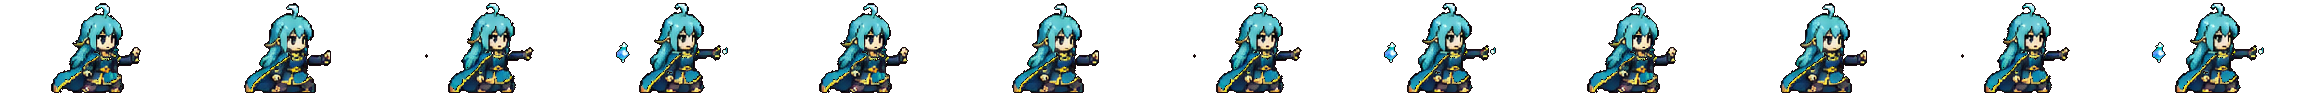
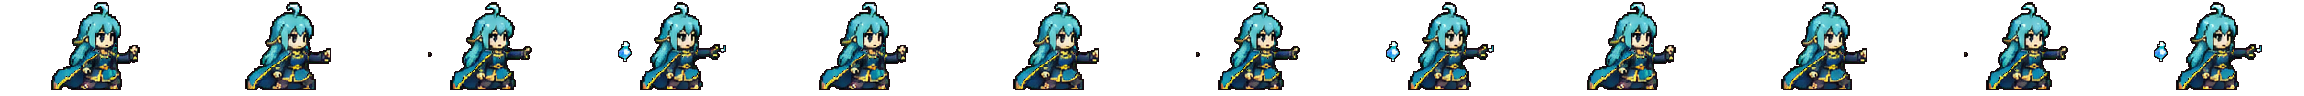
fix(marina): rebuild sprite sheets with pillow

diff --git a/scripts/assets/rebuild_marina_character_with_pillow.py b/scripts/assets/rebuild_marina_character_with_pillow.py
@@ -1,0 +1,238 @@
+#!/usr/bin/env python3
+from __future__ import annotations
+
+import re
+from pathlib import Path
+
+from PIL import Image, ImageChops, ImageFilter
+
+
+ROOT = Path(__file__).resolve().parents[2]
+OUT_DIR = ROOT / "assets/characters/marina"
+SOURCE = OUT_DIR / "generated_source/marina_clean_source_chromakey.png"
+ALPHA_SOURCE = OUT_DIR / "generated_source/marina_clean_source_alpha_pillow.png"
+PREVIEW = OUT_DIR / "generated_source/marina_rework_preview.png"
+WORK_DIR = ROOT / "tmp/asset_generation/marina_clean/pillow_frames"
+
+FRAME_WIDTH = 192
+FRAME_HEIGHT = 96
+CONTENT_HEIGHT = 92
+OUTLINE = (26, 11, 16, 255)
+KEY_THRESHOLD = 42
+DESPILL_THRESHOLD = 28
+FOOT_LIFT = 3
+
+
+def parse_box(box: str) -> tuple[int, int, int, int]:
+    match = re.fullmatch(r"(\d+)x(\d+)\+(\d+)\+(\d+)", box)
+    if not match:
+        raise ValueError(f"invalid crop box: {box}")
+    width, height, x, y = map(int, match.groups())
+    return x, y, x + width, y + height
+
+
+def parse_resize(spec: str) -> tuple[int | None, int | None, bool]:
+    limit = spec.endswith(">")
+    if limit:
+        spec = spec[:-1]
+    if spec.startswith("x"):
+        return None, int(spec[1:]), limit
+    if "x" in spec:
+        left, right = spec.split("x", 1)
+        return int(left) if left else None, int(right) if right else None, limit
+    return int(spec), None, limit
+
+
+def remove_green_key(image: Image.Image) -> Image.Image:
+    image = image.convert("RGBA")
+    pixels = image.load()
+    for y in range(image.height):
+        for x in range(image.width):
+            r, g, b, a = pixels[x, y]
+            if a == 0:
+                pixels[x, y] = (0, 0, 0, 0)
+                continue
+            green_delta = g - max(r, b)
+            if g > 70 and green_delta > KEY_THRESHOLD and g > int(r * 1.18) and g > int(b * 1.18):
+                pixels[x, y] = (0, 0, 0, 0)
+            elif green_delta > DESPILL_THRESHOLD and g > r and g > b:
+                replacement = int(max(r, b) * 0.72)
+                pixels[x, y] = (r, min(g, replacement), b, a)
+    return image
+
+
+def trim(image: Image.Image) -> Image.Image:
+    alpha = image.getchannel("A")
+    bbox = alpha.getbbox()
+    if bbox is None:
+        return Image.new("RGBA", (1, 1), (0, 0, 0, 0))
+    return image.crop(bbox)
+
+
+def resize_like_magick(image: Image.Image, spec: str) -> Image.Image:
+    width, height, limit = parse_resize(spec)
+    current_w, current_h = image.size
+
+    if width is None and height is None:
+        return image
+    if width is None:
+        scale = height / current_h
+    elif height is None:
+        scale = width / current_w
+    else:
+        scale = min(width / current_w, height / current_h)
+        if not limit:
+            # Match ImageMagick's aspect-preserving WxH behavior.
+            scale = min(width / current_w, height / current_h)
+
+    if limit and scale >= 1:
+        return image
+
+    new_size = (max(1, round(current_w * scale)), max(1, round(current_h * scale)))
+    return image.resize(new_size, Image.Resampling.NEAREST)
+
+
+def constrain(image: Image.Image) -> Image.Image:
+    width, height = image.size
+    scale = min(184 / width, 86 / height, 1.0)
+    if scale >= 1:
+        return image
+    new_size = (max(1, round(width * scale)), max(1, round(height * scale)))
+    return image.resize(new_size, Image.Resampling.NEAREST)
+
+
+def add_outline(image: Image.Image) -> Image.Image:
+    alpha = image.getchannel("A")
+    dilated = alpha.filter(ImageFilter.MaxFilter(3))
+    outline_alpha = ImageChops.subtract(dilated, alpha)
+    outline = Image.new("RGBA", image.size, OUTLINE)
+    outline.putalpha(outline_alpha)
+    return Image.alpha_composite(outline, image)
+
+
+def frame(source: Image.Image, name: str, box: str, resize_spec: str = "x86") -> Path:
+    crop = trim(source.crop(parse_box(box)))
+    crop = resize_like_magick(crop, resize_spec)
+    crop = constrain(crop)
+
+    content = Image.new("RGBA", (FRAME_WIDTH, CONTENT_HEIGHT), (0, 0, 0, 0))
+    x = (FRAME_WIDTH - crop.width) // 2
+    y = max(0, CONTENT_HEIGHT - crop.height - FOOT_LIFT)
+    content.alpha_composite(crop, (x, y))
+
+    canvas = Image.new("RGBA", (FRAME_WIDTH, FRAME_HEIGHT), (0, 0, 0, 0))
+    canvas.alpha_composite(content, (0, 0))
+    canvas = add_outline(canvas)
+
+    # Avoid colored RGB data in transparent pixels; it reduces import/render fringes.
+    pixels = canvas.load()
+    for py in range(canvas.height):
+        for px in range(canvas.width):
+            r, g, b, a = pixels[px, py]
+            if a == 0:
+                pixels[px, py] = (0, 0, 0, 0)
+
+    path = WORK_DIR / f"{name}.png"
+    canvas.save(path)
+    return path
+
+
+def strip(output: str, frames: list[Path]) -> None:
+    sheet = Image.new("RGBA", (FRAME_WIDTH * len(frames), FRAME_HEIGHT), (0, 0, 0, 0))
+    for index, path in enumerate(frames):
+        sheet.alpha_composite(Image.open(path).convert("RGBA"), (FRAME_WIDTH * index, 0))
+    sheet.save(OUT_DIR / f"{output}.png")
+
+
+def main() -> None:
+    if not SOURCE.exists():
+        raise FileNotFoundError(SOURCE)
+
+    WORK_DIR.mkdir(parents=True, exist_ok=True)
+    OUT_DIR.mkdir(parents=True, exist_ok=True)
+    for old in WORK_DIR.glob("*.png"):
+        old.unlink()
+
+    source = remove_green_key(Image.open(SOURCE))
+    source.save(ALPHA_SOURCE)
+
+    frames: dict[str, Path] = {}
+
+    def make(name: str, box: str, resize: str = "x86") -> None:
+        frames[name] = frame(source, name, box, resize)
+
+    make("idle_0", "118x126+28+10", "x88")
+    make("idle_1", "118x126+146+10", "x88")
+    make("idle_2", "118x126+266+10", "x88")
+    make("idle_3", "118x126+146+10", "x88")
+
+    make("run_0", "130x104+18+176", "x88")
+    make("run_1", "130x104+142+176", "x88")
+    make("run_2", "130x104+268+176", "x88")
+    make("run_3", "130x104+388+176", "x88")
+    make("run_4", "130x104+506+176", "x88")
+    make("run_5", "130x104+624+176", "x88")
+
+    for index, box in enumerate(["386", "506", "626", "746"] * 3):
+        make(f"attack_{index}", f"118x126+{box}+10", "x88")
+
+    make("jump_0", "118x106+24+328", "x86")
+    make("jump_1", "124x106+146+328", "x86")
+    make("jump_2", "124x106+268+328", "x86")
+
+    make("dodge_0", "160x72+20+475", "132x64>")
+    make("dodge_1", "166x72+196+475", "138x64>")
+    make("dodge_2", "166x72+374+475", "138x64>")
+    make("dodge_3", "166x72+544+475", "138x64>")
+
+    make("hurt_0", "114x110+1074+460", "x86")
+    make("hurt_1", "124x110+1250+460", "x86")
+
+    for index, box in enumerate(["386", "506", "626", "746"] * 2):
+        make(f"throw_{index}", f"118x126+{box}+10", "x88")
+
+    make("skill_0", "118x126+24+746", "x88")
+    make("skill_1", "128x126+204+746", "x88")
+    make("skill_2", "136x126+392+746", "x88")
+    make("skill_3", "142x126+586+746", "x88")
+
+    make("death_0", "112x112+24+888", "x78")
+    make("death_1", "124x104+150+898", "x72")
+    make("death_2", "152x66+304+918", "132x62>")
+    make("death_3", "162x58+470+930", "136x56>")
+    make("death_4", "170x52+634+936", "140x52>")
+
+    strip("idle", [frames[f"idle_{i}"] for i in range(4)])
+    strip("run", [frames[f"run_{i}"] for i in range(6)])
+    strip("attack", [frames[f"attack_{i}"] for i in range(12)])
+    strip("jump", [frames[f"jump_{i}"] for i in range(3)])
+    strip("dodge", [frames[f"dodge_{i}"] for i in range(4)])
+    strip("hurt", [frames[f"hurt_{i}"] for i in range(2)])
+    strip("throw", [frames[f"throw_{i}"] for i in range(8)])
+    strip("skill", [frames[f"skill_{i}"] for i in range(4)])
+    strip("death", [frames[f"death_{i}"] for i in range(5)])
+
+    preview_rows = [
+        OUT_DIR / "idle.png",
+        OUT_DIR / "run.png",
+        OUT_DIR / "attack.png",
+        OUT_DIR / "jump.png",
+        OUT_DIR / "dodge.png",
+        OUT_DIR / "hurt.png",
+        OUT_DIR / "throw.png",
+        OUT_DIR / "skill.png",
+        OUT_DIR / "death.png",
+    ]
+    total_height = sum(Image.open(path).height for path in preview_rows) + 8 * len(preview_rows)
+    preview = Image.new("RGBA", (max(Image.open(path).width for path in preview_rows), total_height), (26, 24, 22, 255))
+    y = 0
+    for path in preview_rows:
+        row = Image.open(path).convert("RGBA")
+        y += 8
+        preview.alpha_composite(row, (0, y))
+        y += row.height
+    preview.save(PREVIEW)
+
+
+if __name__ == "__main__":
+    main()
